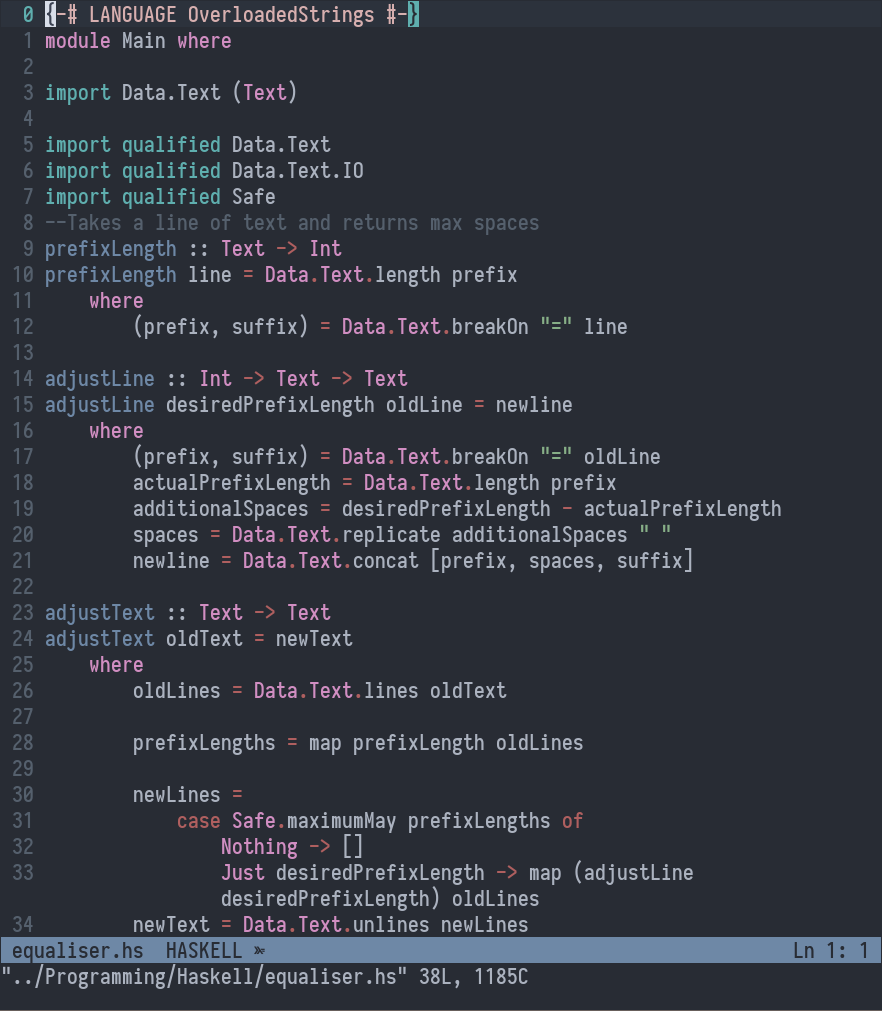
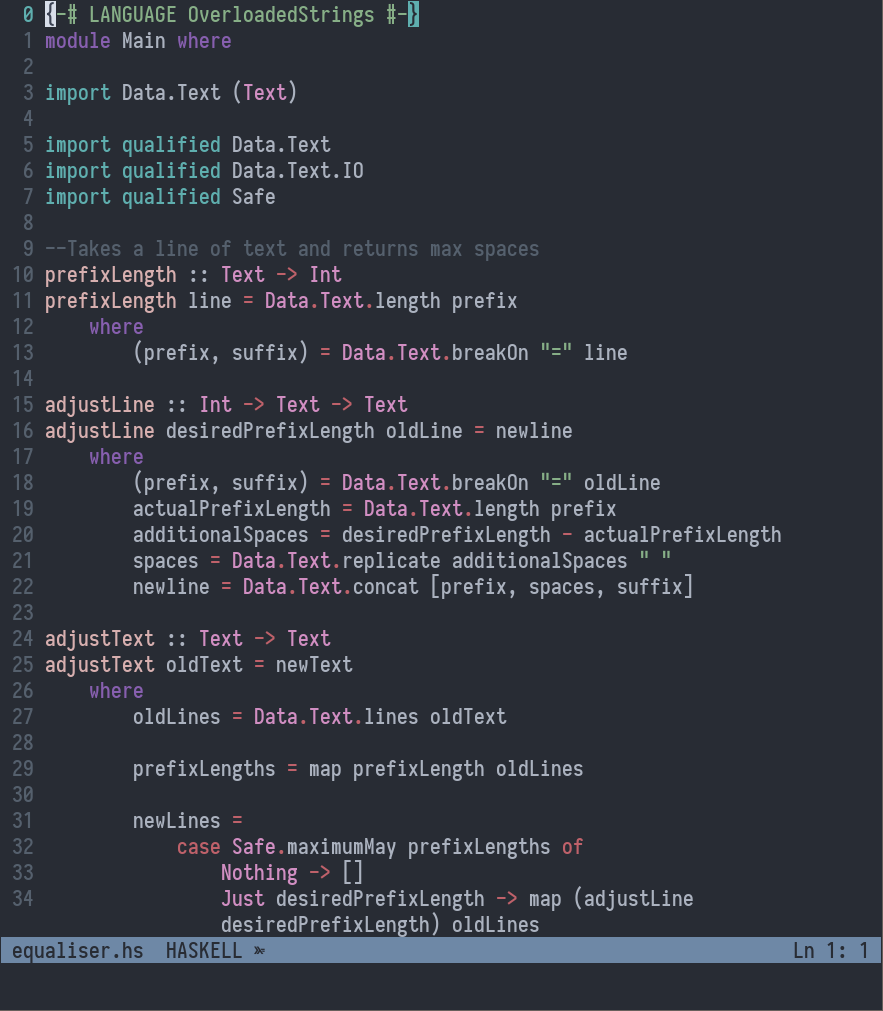
More consistency in colors

diff --git a/README.md b/README.md
@@ -6,15 +6,15 @@ The name is inspired by Brandon Sanderson's awesome book series [Mistborn](https
 
 ## Main color palette
 
-| Color name       |Color Code | Color         | Main use         | 
-|------------------|---------- |---------------|------------------|
-| Blue             | `#6E88A6` |![#6E88A6](https://placehold.it/100x40/6E88A6/111111?text=+)| Functions        |
-| Beige            | `#D7AFAF` |![#D7AFAF](https://placehold.it/100x40/D7AFAF/000000?text=+)| Identifiers      |
-| Green            | `#87AF87` |![#87AF87](https://placehold.it/100x40/87AF87/000000?text=+)| Strings          |
-| Red              | `#af5f5f` |![#af5f5f](https://placehold.it/100x40/af5f5f/000000?text=+)| Statements       |
-| Orange           | `#FF875F` |![#FF875F](https://placehold.it/100x40/FF875F/000000?text=+)| Constants        |
-| Purple           | `#875faf` |![#875faf](https://placehold.it/100x40/875faf/000000?text=+)| Types            |
-| Aqua             | `#5fafaf` |![#5fafaf](https://placehold.it/100x40/5fafaf/000000?text=+)| Focus/Highlights |
+| Color name       |Color Code | Color                                                      | Main use              | 
+|------------------|---------- |------------------------------------------------------------|-----------------------| 
+| Blue             | `#6E88A6` |![#6E88A6](https://placehold.it/100x40/6E88A6/111111?text=+)| Identifiers           |
+| Beige            | `#D7AFAF` |![#D7AFAF](https://placehold.it/100x40/D7AFAF/000000?text=+)| Functions             |
+| Green            | `#87AF87` |![#87AF87](https://placehold.it/100x40/87AF87/000000?text=+)| Strings and Special   |
+| Red              | `#af5f5f` |![#af5f5f](https://placehold.it/100x40/af5f5f/000000?text=+)| Statements            |
+| Orange           | `#FF875F` |![#FF875F](https://placehold.it/100x40/FF875F/000000?text=+)| Constants             |
+| Purple           | `#875faf` |![#875faf](https://placehold.it/100x40/875faf/000000?text=+)| Types                 |
+| Aqua             | `#5fafaf` |![#5fafaf](https://placehold.it/100x40/5fafaf/000000?text=+)| Focus and Highlights  |
 
 ## Installation
 
